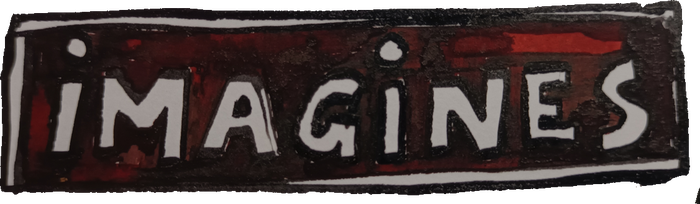
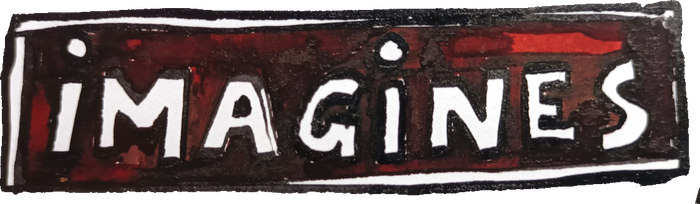
Fix washed-out whites on the colored IMAGINES title graphic
The lettering/rule lines topped out around RGB 170 instead of true
white. Applied a per-channel white-point correction (exposure was low
across the board, blacks were already fine) and bumped the cache-bust
query everywhere the asset is referenced.

diff --git a/galerie.html b/galerie.html
@@ -12,7 +12,7 @@
 <body class="comodoro-page">
 <div class="frame-page">
   <h1 class="visually-hidden">Imagines — Comodoro Süleyman</h1>
-  <div class="frame-title"><img src="titre-imagines.png" alt="Imagines"></div>
+  <div class="frame-title"><img src="titre-imagines.png?v=2" alt="Imagines"></div>
   <div class="frame-content">
     <section class="comodoro-gallery" aria-label="Drawings">
       <button type="button" class="comodoro-gallery-item" data-full="comodoro-dessin-1-full.jpg?v=5"><img class="no-lightbox" src="comodoro-dessin-1.jpg?v=5" alt="Drawing: a figure in a plumed cap holding a tall spear, beside a small skull"></button>

diff --git a/contact-es.html b/contact-es.html
@@ -61,7 +61,7 @@
   <a href="argumentum-es.html"><img src="titre-argumentum.png?v=2" alt="Argumentum - Comodoro Süleyman"></a>
   <a href="agenda-es.html"><img src="titre-agenda.png?v=2" alt="Agenda - Comodoro Süleyman"></a>
 
-  <a class="menu-mobile-only" href="galerie.html"><img src="titre-imagines.png" alt="Imagines - Comodoro Süleyman"></a></nav>
+  <a class="menu-mobile-only" href="galerie.html"><img src="titre-imagines.png?v=2" alt="Imagines - Comodoro Süleyman"></a></nav>
 <script src="lightbox.js?v=3" defer></script>
 </body>
 </html>

diff --git a/contact-fr.html b/contact-fr.html
@@ -61,7 +61,7 @@
   <a href="argumentum-fr.html"><img src="titre-argumentum.png?v=2" alt="Argumentum - Comodoro Süleyman"></a>
   <a href="agenda-fr.html"><img src="titre-agenda.png?v=2" alt="Agenda - Comodoro Süleyman"></a>
 
-  <a class="menu-mobile-only" href="galerie.html"><img src="titre-imagines.png" alt="Imagines - Comodoro Süleyman"></a></nav>
+  <a class="menu-mobile-only" href="galerie.html"><img src="titre-imagines.png?v=2" alt="Imagines - Comodoro Süleyman"></a></nav>
 <script src="lightbox.js?v=3" defer></script>
 </body>
 </html>

diff --git a/contact-ro.html b/contact-ro.html
@@ -61,7 +61,7 @@
   <a href="argumentum-ro.html"><img src="titre-argumentum.png?v=2" alt="Argumentum - Comodoro Süleyman"></a>
   <a href="agenda-ro.html"><img src="titre-agenda.png?v=2" alt="Agenda - Comodoro Süleyman"></a>
 
-  <a class="menu-mobile-only" href="galerie.html"><img src="titre-imagines.png" alt="Imagines - Comodoro Süleyman"></a></nav>
+  <a class="menu-mobile-only" href="galerie.html"><img src="titre-imagines.png?v=2" alt="Imagines - Comodoro Süleyman"></a></nav>
 <script src="lightbox.js?v=3" defer></script>
 </body>
 </html>

diff --git a/audio-es.html b/audio-es.html
@@ -111,7 +111,7 @@
   <a href="agenda-es.html"><img src="titre-agenda.png?v=2" alt="Agenda - Comodoro Süleyman"></a>
   <a href="contact-es.html"><img src="titre-contact.png?v=2" alt="Contact - Comodoro Süleyman"></a>
 
-  <a class="menu-mobile-only" href="galerie.html"><img src="titre-imagines.png" alt="Imagines - Comodoro Süleyman"></a></nav>
+  <a class="menu-mobile-only" href="galerie.html"><img src="titre-imagines.png?v=2" alt="Imagines - Comodoro Süleyman"></a></nav>
 <script src="new-player.js?v=6" defer></script>
 </body>
 </html>

diff --git a/audio-fr.html b/audio-fr.html
@@ -111,7 +111,7 @@
   <a href="agenda-fr.html"><img src="titre-agenda.png?v=2" alt="Agenda - Comodoro Süleyman"></a>
   <a href="contact-fr.html"><img src="titre-contact.png?v=2" alt="Contact - Comodoro Süleyman"></a>
 
-  <a class="menu-mobile-only" href="galerie.html"><img src="titre-imagines.png" alt="Imagines - Comodoro Süleyman"></a></nav>
+  <a class="menu-mobile-only" href="galerie.html"><img src="titre-imagines.png?v=2" alt="Imagines - Comodoro Süleyman"></a></nav>
 <script src="new-player.js?v=6" defer></script>
 </body>
 </html>

diff --git a/audio-ro.html b/audio-ro.html
@@ -111,7 +111,7 @@
   <a href="agenda-ro.html"><img src="titre-agenda.png?v=2" alt="Agenda - Comodoro Süleyman"></a>
   <a href="contact-ro.html"><img src="titre-contact.png?v=2" alt="Contact - Comodoro Süleyman"></a>
 
-  <a class="menu-mobile-only" href="galerie.html"><img src="titre-imagines.png" alt="Imagines - Comodoro Süleyman"></a></nav>
+  <a class="menu-mobile-only" href="galerie.html"><img src="titre-imagines.png?v=2" alt="Imagines - Comodoro Süleyman"></a></nav>
 <script src="new-player.js?v=6" defer></script>
 </body>
 </html>

diff --git a/contact.html b/contact.html
@@ -61,7 +61,7 @@
   <a href="argumentum.html"><img src="titre-argumentum.png?v=2" alt="Argumentum - Comodoro Süleyman"></a>
   <a href="agenda.html"><img src="titre-agenda.png?v=2" alt="Agenda - Comodoro Süleyman"></a>
 
-  <a class="menu-mobile-only" href="galerie.html"><img src="titre-imagines.png" alt="Imagines - Comodoro Süleyman"></a></nav>
+  <a class="menu-mobile-only" href="galerie.html"><img src="titre-imagines.png?v=2" alt="Imagines - Comodoro Süleyman"></a></nav>
 <script src="lightbox.js?v=3" defer></script>
 </body>
 </html>

diff --git a/argumentum-es.html b/argumentum-es.html
@@ -107,7 +107,7 @@
   <a href="agenda-es.html"><img src="titre-agenda.png?v=2" alt="Agenda - Comodoro Süleyman"></a>
   <a href="contact-es.html"><img src="titre-contact.png?v=2" alt="Contact - Comodoro Süleyman"></a>
 
-  <a class="menu-mobile-only" href="galerie.html"><img src="titre-imagines.png" alt="Imagines - Comodoro Süleyman"></a></nav>
+  <a class="menu-mobile-only" href="galerie.html"><img src="titre-imagines.png?v=2" alt="Imagines - Comodoro Süleyman"></a></nav>
 <script src="lightbox.js?v=3" defer></script>
 </body>
 </html>

diff --git a/argumentum-fr.html b/argumentum-fr.html
@@ -107,7 +107,7 @@
   <a href="agenda-fr.html"><img src="titre-agenda.png?v=2" alt="Agenda - Comodoro Süleyman"></a>
   <a href="contact-fr.html"><img src="titre-contact.png?v=2" alt="Contact - Comodoro Süleyman"></a>
 
-  <a class="menu-mobile-only" href="galerie.html"><img src="titre-imagines.png" alt="Imagines - Comodoro Süleyman"></a></nav>
+  <a class="menu-mobile-only" href="galerie.html"><img src="titre-imagines.png?v=2" alt="Imagines - Comodoro Süleyman"></a></nav>
 <script src="lightbox.js?v=3" defer></script>
 </body>
 </html>

diff --git a/argumentum-ro.html b/argumentum-ro.html
@@ -105,7 +105,7 @@
   <a href="agenda-ro.html"><img src="titre-agenda.png?v=2" alt="Agenda - Comodoro Süleyman"></a>
   <a href="contact-ro.html"><img src="titre-contact.png?v=2" alt="Contact - Comodoro Süleyman"></a>
 
-  <a class="menu-mobile-only" href="galerie.html"><img src="titre-imagines.png" alt="Imagines - Comodoro Süleyman"></a></nav>
+  <a class="menu-mobile-only" href="galerie.html"><img src="titre-imagines.png?v=2" alt="Imagines - Comodoro Süleyman"></a></nav>
 <script src="lightbox.js?v=3" defer></script>
 </body>
 </html>

diff --git a/codex-es.html b/codex-es.html
@@ -42,7 +42,7 @@
   <a href="agenda-es.html"><img src="titre-agenda.png?v=2" alt="Agenda - Comodoro Süleyman"></a>
   <a href="contact-es.html"><img src="titre-contact.png?v=2" alt="Contact - Comodoro Süleyman"></a>
 
-  <a class="menu-mobile-only" href="galerie.html"><img src="titre-imagines.png" alt="Imagines - Comodoro Süleyman"></a></nav>
+  <a class="menu-mobile-only" href="galerie.html"><img src="titre-imagines.png?v=2" alt="Imagines - Comodoro Süleyman"></a></nav>
 <script src="lightbox.js?v=3" defer></script>
 </body>
 </html>
